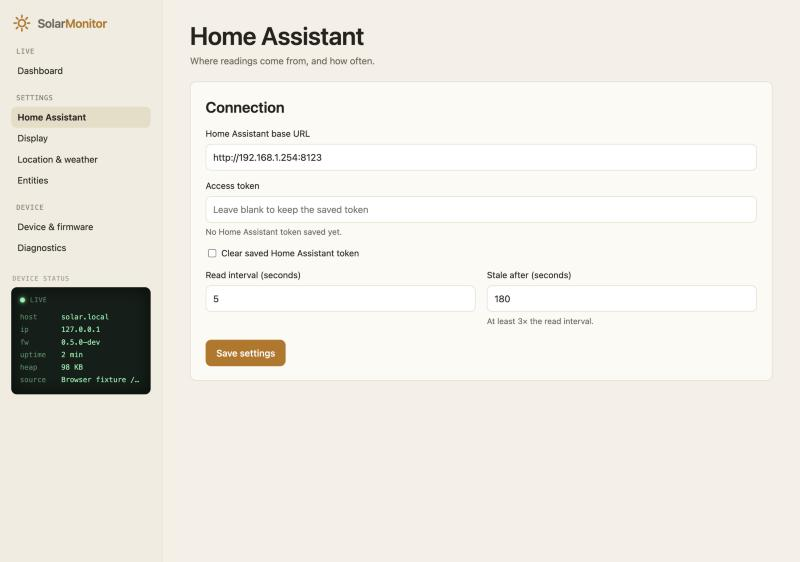
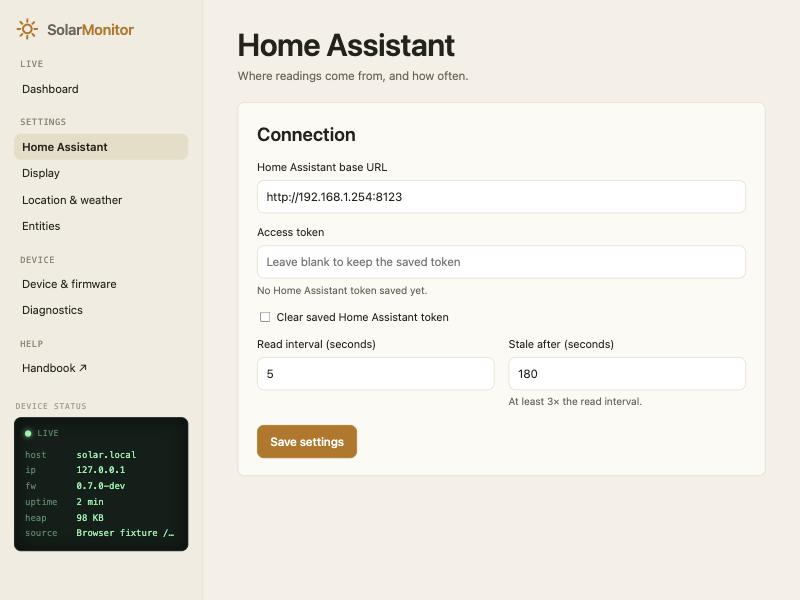
docs(readme): web dashboard section with full-page capture
- Full dashboard screenshot plus settings, location and diagnostics, with usage notes
- Settings, location, entities and diagnostics screenshots retaken for 0.7.0-dev
- fix(webui): totals and weather tiles recover after a failed refresh

diff --git a/src/web/web_page.h b/src/web/web_page.h
@@ -287,6 +287,8 @@ if(t.today&&t.today.entity){$('vToday').innerHTML=t.today.fresh?t.today.value.to
 if(t.tomorrow&&t.tomorrow.entity&&t.tomorrow.fresh){$('vTomorrow').innerHTML='~'+Math.round(t.tomorrow.value)+'<small>kWh</small>';pill('sTomorrow',w.fresh?SKY(w.tomorrowCode)+' · '+w.tomorrowMaxC.toFixed(0)+'°':'solar forecast','')}
 else if(w.fresh){$('vTomorrow').innerHTML=w.tomorrowMaxC.toFixed(0)+'<small>°C max</small>';pill('sTomorrow',SKY(w.tomorrowCode),'')}
 if(w.configured){$('kWeather').textContent=w.place?'Now · '+w.place.split(',')[0]:'Weather now';$('vWeather').innerHTML=w.fresh?w.nowC.toFixed(0)+'<small>°C</small>':'&ndash;';pill('sWeather',w.fresh?SKY(w.nowCode):'unavailable','')}
+// These tiles show "–" when unavailable; clear the grey a failed refresh left.
+['tToday','tTomorrow','tWeather'].forEach(t=>$(t).classList.remove('stale'));
 arm('Solar',solar.fresh,solar.value,true);arm('Grid',grid.fresh,grid.value,grid.value>0);arm('Batt',batt.fresh,batt.value,batt.value>0);arm('House',house.fresh,house.value,false);
 node('Solar',solar,solar.fresh?(solar.value>30?'generating':'idle'):'unavailable');node('House',house,house.fresh?'demand':'unavailable');
 node('Grid',grid,!grid.fresh?'unavailable':grid.value>30?'importing':grid.value<-30?'exporting':'idle');

diff --git a/README.md b/README.md
@@ -108,7 +108,47 @@ The **[handbook](docs/index.html)** covers the rest in detail:
 - serial diagnostics;
 - troubleshooting.
 
-Open it from a local clone or the GitHub file view.
+The panel serves the same handbook at `http://solar.local/guide/`, so it works without internet. You can also open it from a local clone.
+
+---
+
+## Browser dashboard
+
+Open `http://solar.local/` from any phone, tablet or computer on your home network. The page follows your light or dark setting and refreshes every three seconds. Nothing is stored in the cloud: the page talks only to the panel.
+
+![The whole dashboard: tiles, energy flow, 30-minute chart and footer](docs/images/webui-dashboard-full.jpg)
+
+The dashboard reads from top to bottom.
+
+**At a glance.** Eight tiles give the live picture:
+- solar, house, grid and battery power;
+- the battery level, with a bar coloured like the panel's gauge;
+- solar energy so far today and tomorrow's forecast;
+- the current weather.
+
+The pills say which way power is going: green when you're exporting or charging, red when importing. Down the left, the **Device status** panel shows whether readings are live, plus the address, firmware, uptime and free memory.
+
+**Energy flow.** Each reading joins the inverter by a pipe, and comets travel the way power is flowing. A thicker pipe and faster comets mean more power, and a plain grey pipe means that reading is idle or stale. It's the quickest way to see where your solar is going: into the house, into the battery, or out to the grid.
+
+**Last 30 minutes.** Solar, house, grid and battery are charted against clock time. Above the zero line, the grid is importing and the battery supplying; below it, you're exporting and charging. The chart is collected by your browser while the page is open, so it fills from the right. The panel itself keeps no history.
+
+The footer links to the handbook and to this repository.
+
+![Settings: Home Assistant connection, token and read interval](docs/images/webui-settings.jpg)
+
+**Settings.** Settings are split across four pages, and **Save settings** on any page saves them all:
+- **Home Assistant:** the URL, access token and read interval;
+- **Display:** layout, brightness, battery label, night dimming and demo mode;
+- **Location & weather:** search for your town to set the weather location and timezone;
+- **Entities:** the six power sensors, the optional daily and forecast sensors, and an HTTPS certificate.
+
+![Location and weather: town search filling latitude, longitude and timezone](docs/images/webui-location.jpg)
+
+![Diagnostics: every reading with its entity, value, validity and age](docs/images/webui-diagnostics.jpg)
+
+**Diagnostics.** Every reading is listed with its Home Assistant entity, value, whether it's valid, and how old it is. This is the first place to look when a value on the panel is grey. **Device & firmware** has restart, Wi-Fi reset and firmware upload.
+
+There's no login, by design for a trusted home network, so don't expose the panel to the internet or a guest network.
 
 ---
 

diff --git a/CHANGELOG.md b/CHANGELOG.md
@@ -12,6 +12,7 @@
   - an upright battery gauge with the percentage beneath.
 - Panel redraw: the whole screen 4 times a second (`APP_FULL_FRAME_MS`); between full frames, only the pipe area is redrawn and pushed at 20 fps (`APP_FLOW_FRAME_MS`). Pushing the full screen at 10–20 fps starved Wi-Fi: TCP connects took 0.4 s and page loads 2.2 s. With the partial redraw, loads are typically 0.3–0.7 s, with occasional slower ones.
 - Wi-Fi modem sleep turned off (`WiFi.setSleep(false)`); the panel is mains-powered. With sleep on, pings to the panel swung between 40 and 450 ms.
+- README "Browser dashboard" section: a full-page capture of the dashboard, plus settings, location and diagnostics screenshots, each with notes on what it's for. Settings, location, entities and diagnostics screenshots retaken to show 0.7.0-dev and the Help link.
 - Web dashboard: banner at the foot linking to the GitHub repository.
 - Sun icon for the browser tab, on the device page and the handbook.
 - Handbook served by the device at `http://solar.local/guide/` (works offline), linked from a new Help group in the sidebar and from the dashboard banner. `tools/embed_docs.py` embeds `docs/index.html` and its images at build time (about 270 KB; app flash now 84%). Served with `Cache-Control: no-cache`, so browsers pick up the new handbook after a firmware update.
@@ -26,6 +27,10 @@
 - Handbook "Choosing a layout" shows both layouts side by side and says where to switch (Settings → Display → Layout); the README shows both too.
 - The web UI hint for "Solar energy today" warns against inverter AC energy on battery systems.
 - References to the author's other projects removed from the README.
+
+### Fixed
+
+- Web dashboard: after a single failed refresh (for example a Wi-Fi blip), the Solar today, Tomorrow and Weather tiles stayed grey until the page was reloaded. They now recover on the next good refresh.
 
 ---
 
